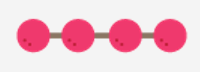
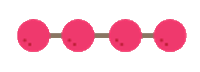
few changes on Game Object Image classes and the images

diff --git a/src/UI/Swing/GameModePanel.java b/src/UI/Swing/GameModePanel.java
@@ -8,7 +8,6 @@ import java.awt.GridBagLayout;
 import java.awt.GridLayout;
 import java.awt.Image;
 import java.awt.Insets;
-import java.awt.Point;
 import java.awt.event.ActionEvent;
 import java.awt.event.ActionListener;
 import java.awt.event.KeyEvent;
@@ -22,9 +21,7 @@ import javax.swing.JPanel;
 import javax.swing.border.LineBorder;
 
 import Domain.GameController;
-import Domain.Player.Shooter;
 import UI.ImageResizer;
-import UI.GameObjectImages.ShooterImage;
 
 @SuppressWarnings("serial")
 public class GameModePanel extends ModePanel {
@@ -47,13 +44,13 @@ public class GameModePanel extends ModePanel {
 	private JLabel blenderLabel = new JLabel();
 	
 	private JButton alphaPUButton = new JButton();
-	private JLabel currentAlphaPULabel = new JLabel();
+	private JLabel currentAlphaPULabel = new JLabel("0");
 	private JButton betaPUButton = new JButton();
-	private JLabel currentBetaPULabel = new JLabel();
+	private JLabel currentBetaPULabel = new JLabel("0");
 	private JButton gammaPUButton = new JButton();
-	private JLabel currentGammaPULabel = new JLabel();
+	private JLabel currentGammaPULabel = new JLabel("0");
 	private JButton sigmaPUButton = new JButton();
-	private JLabel currentSigmaPULabel = new JLabel();
+	private JLabel currentSigmaPULabel = new JLabel("0");
 	
 	private JLabel alphaAtomLabel = new JLabel();
 	private JLabel currentAlphaAtomLabel = new JLabel();
@@ -73,6 +70,7 @@ public class GameModePanel extends ModePanel {
 		
 		this.setLayout(new GridBagLayout());
 		this.setSidePanelImages();
+		this.setCurrentAtomNumbers();
 		
 		/*
 		 * player panel design
@@ -191,6 +189,14 @@ public class GameModePanel extends ModePanel {
 		this.addKeyListener(keyListener);
 		this.setFocusable(true);
 		
+		this.mainGamePanel.initialize();
+	}
+	
+	private void setCurrentAtomNumbers() {
+		//currentAlphaAtomLabel.setText(GC.settings.getAtomNumber());
+		//currentBetaAtomLabel.setText(GC.settings.getAtomNumber());
+		//currentGammaAtomLabel.setText(GC.settings.getAtomNumber());
+		//currentSigmaAtomLabel.setText(GC.settings.getAtomNumber());
 	}
 
 	private void setSidePanelImages() {

diff --git a/src/UI/GameObjectImages/PowerUpImage.java b/src/UI/GameObjectImages/PowerUpImage.java
@@ -1,10 +1,13 @@
 package UI.GameObjectImages;
 
 import java.awt.Graphics;
+import java.awt.Toolkit;
 
 import javax.swing.ImageIcon;
 
 import Domain.GameObjects.PowerUp;
+import UI.ImageResizer;
+import UI.Swing.MainGamePanel;
 
 @SuppressWarnings("serial")
 public class PowerUpImage extends GameObjectImage{
@@ -14,6 +17,7 @@ public class PowerUpImage extends GameObjectImage{
 	private static final String GAMMA_POWERUP_IMAGE = "../../Images/powerups/+gamma-b.png";
 	private static final String SIGMA_POWERUP_IMAGE = "../../Images/powerups/+sigma-b.png";
 	private PowerUp PU;
+	private int L = (int) (Toolkit.getDefaultToolkit().getScreenSize().getHeight() / 10); //TODO
 	
 	
 	public PowerUpImage(PowerUp PU, int type, int x, int y) {
@@ -22,6 +26,7 @@ public class PowerUpImage extends GameObjectImage{
 		this.PU = PU;
 		this.PU.add(this);
 		this.image = new ImageIcon(getClass().getResource(this.imageName)).getImage();
+		this.image = ImageResizer.getResizedImage(image, L / 10, L / 10);
 	}
 	
 
@@ -64,7 +69,7 @@ public class PowerUpImage extends GameObjectImage{
 	public void update() {
 		this.x = PU.getCoordinate().x;
 		this.y = PU.getCoordinate().y;
-		repaint();
+		MainGamePanel.getInstance().repaint();
 	}
 
 }

diff --git a/src/UI/GameObjectImages/ReactionBlockerImage.java b/src/UI/GameObjectImages/ReactionBlockerImage.java
@@ -1,10 +1,13 @@
 package UI.GameObjectImages;
 
 import java.awt.Graphics;
+import java.awt.Toolkit;
 
 import javax.swing.ImageIcon;
 
 import Domain.GameObjects.ReactionBlocker;
+import UI.ImageResizer;
+import UI.Swing.MainGamePanel;
 
 @SuppressWarnings("serial")
 public class ReactionBlockerImage extends GameObjectImage{
@@ -15,6 +18,8 @@ public class ReactionBlockerImage extends GameObjectImage{
 	private static final String SIGMA_RB_IMAGE = "../../Images/blockers/sigma-b.png";
 	private ReactionBlocker RB;
 	
+	private int L = (int) (Toolkit.getDefaultToolkit().getScreenSize().getHeight() / 10); //TODO
+	
 
 	public ReactionBlockerImage(ReactionBlocker RB, int type, int x, int y) {
 		super(type, x, y);
@@ -22,7 +27,7 @@ public class ReactionBlockerImage extends GameObjectImage{
 		this.RB = RB;
 		this.RB.add(this);
 		this.image = new ImageIcon(getClass().getResource(this.imageName)).getImage();
-		
+		this.image = ImageResizer.getResizedImage(image, L / 10, L / 10);
 	}
 	
 
@@ -65,7 +70,7 @@ public class ReactionBlockerImage extends GameObjectImage{
 	public void update() {
 		this.x = RB.getCoordinate().x;
 		this.y = RB.getCoordinate().y;
-		repaint();
+		MainGamePanel.getInstance().repaint();
 	}
 	
 }

diff --git a/src/UI/GameObjectImages/MoleculeImage.java b/src/UI/GameObjectImages/MoleculeImage.java
@@ -1,10 +1,13 @@
 package UI.GameObjectImages;
 
 import java.awt.Graphics;
+import java.awt.Toolkit;
 
 import javax.swing.ImageIcon;
 
 import Domain.GameObjects.Molecule;
+import UI.ImageResizer;
+import UI.Swing.MainGamePanel;
 
 @SuppressWarnings("serial")
 public class MoleculeImage extends GameObjectImage{
@@ -15,6 +18,8 @@ public class MoleculeImage extends GameObjectImage{
 	private static final String SIGMA_MOLECULE_IMAGE = "../../Images/molecules/sigma-.png";
 	private Molecule molecule;
 	
+	private int L = (int) (Toolkit.getDefaultToolkit().getScreenSize().getHeight() / 10); //TODO
+	
 	
 	public MoleculeImage(Molecule molecule, int type, int x, int y) {
 		super(type, x, y);
@@ -22,6 +27,7 @@ public class MoleculeImage extends GameObjectImage{
 		this.molecule = molecule;
 		this.molecule.add(this);
 		this.image = new ImageIcon(getClass().getResource(this.imageName)).getImage();
+		this.image = ImageResizer.getResizedImage(image, L / 4, L / 4);
 	}
 	
 
@@ -64,7 +70,7 @@ public class MoleculeImage extends GameObjectImage{
 	public void update() {
 		this.x = molecule.getCoordinate().x;
 		this.y = molecule.getCoordinate().y;
-		repaint();
+		MainGamePanel.getInstance().repaint();
 	}
 
 }

diff --git a/src/UI/GameObjectImages/AtomImage.java b/src/UI/GameObjectImages/AtomImage.java
@@ -1,10 +1,13 @@
 package UI.GameObjectImages;
 
 import java.awt.Graphics;
+import java.awt.Toolkit;
 
 import javax.swing.ImageIcon;
 
 import Domain.GameObjects.Atom;
+import UI.ImageResizer;
+import UI.Swing.MainGamePanel;
 
 @SuppressWarnings("serial")
 public class AtomImage extends GameObjectImage{
@@ -14,6 +17,8 @@ public class AtomImage extends GameObjectImage{
 	private static final String GAMMA_ATOM_IMAGE = "../../Images/atoms/gamma.png";
 	private static final String SIGMA_ATOM_IMAGE = "../../Images/atoms/sigma.png";
 	private Atom atom;
+
+	private int L = (int) (Toolkit.getDefaultToolkit().getScreenSize().getHeight() / 10); //TODO
 	
 	
 	public AtomImage(Atom atom, int type, int x, int y) {
@@ -22,6 +27,7 @@ public class AtomImage extends GameObjectImage{
 		this.atom = atom;
 		this.atom.add(this);
 		this.image = new ImageIcon(getClass().getResource(this.imageName)).getImage();
+		this.image = ImageResizer.getResizedImage(image, L / 10, L / 10);
 	}
 	
 
@@ -64,7 +70,7 @@ public class AtomImage extends GameObjectImage{
 	public void update() {
 		this.x = atom.getCoordinate().x;
 		this.y = atom.getCoordinate().y;
-		repaint();
+		MainGamePanel.getInstance().repaint();
 	}
 	
 }

diff --git a/src/UI/Swing/MainGamePanel.java b/src/UI/Swing/MainGamePanel.java
@@ -15,11 +15,7 @@ public class MainGamePanel extends JPanel{
 	
 	
 	private MainGamePanel() {
-		this.game = Game.getInstance();
-		this.shooterImage = new ShooterImage(game.getShooter(), 500,500);
-		game.getShooter().add(shooterImage);
-		this.setOpaque(false);
-		this.setFocusable(false);
+		
 	}
 	
 	
@@ -31,11 +27,22 @@ public class MainGamePanel extends JPanel{
 		return main_game_panel;
 	}
 	
+	public void initialize() {
+		this.game = Game.getInstance();
+		this.shooterImage = new ShooterImage(game.getShooter(), game.getShooter().getCoordinate().x, game.getShooter().getCoordinate().y);
+		game.getShooter().add(shooterImage);
+		this.setOpaque(false);
+		this.setFocusable(false);
+		
+		
+	}
+	
 	
 	@Override
 	public void paint(Graphics g) {
 		shooterImage.paint(g);
-		
+		//System.out.println(this.getWidth());
+		//System.out.println(this.getHeight());
 	}
 	
 }

diff --git a/src/UI/Swing/BuildingModePanel.java b/src/UI/Swing/BuildingModePanel.java
@@ -1,6 +1,5 @@
 package UI.Swing;
 
-import java.awt.BorderLayout;
 import java.awt.GridBagConstraints;
 import java.awt.GridBagLayout;
 import java.awt.Insets;
